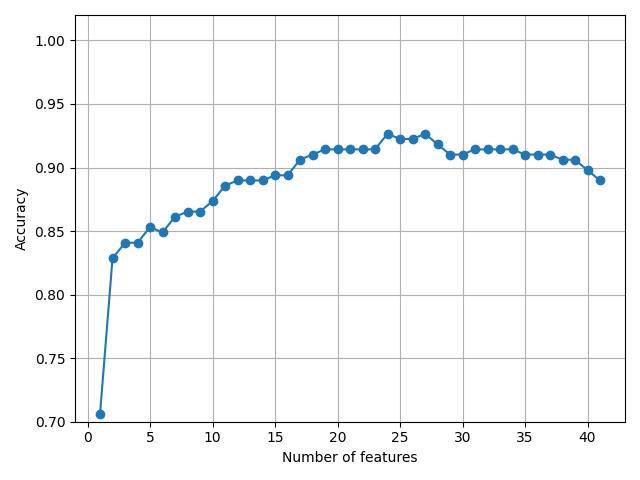
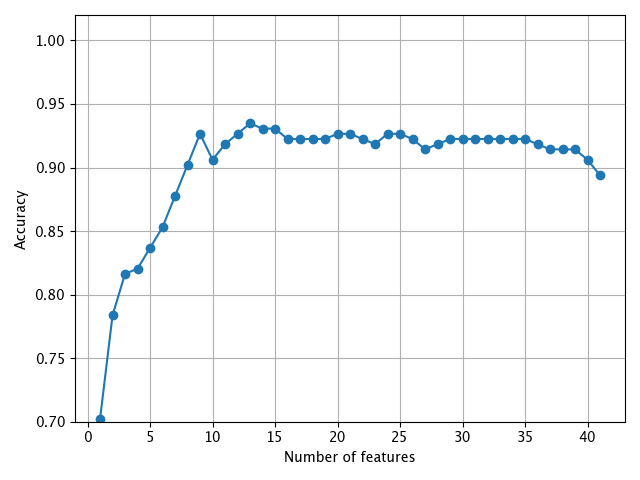
added grid-searched hyperparameters to svm for sbs feature selection

diff --git a/sbs.py b/sbs.py
@@ -159,7 +159,7 @@ class SBS():
         score = self.scoring(y_test, y_pred)
         return score
 
-svm = SVC()
+svm = SVC(C=100, kernel='rbf', gamma=.1)
 
 # selecting features
 sbs = SBS(svm, k_features=1)
